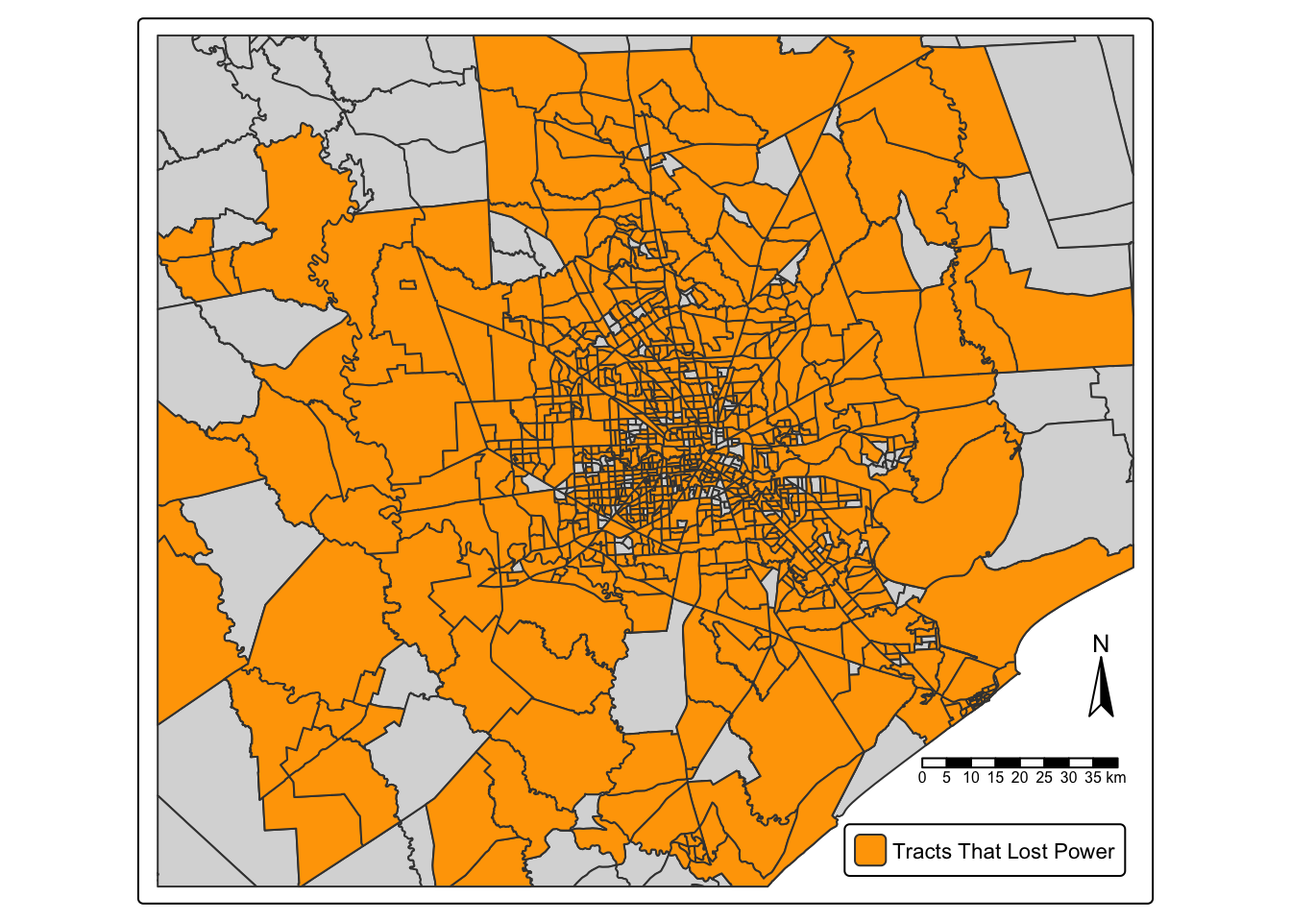
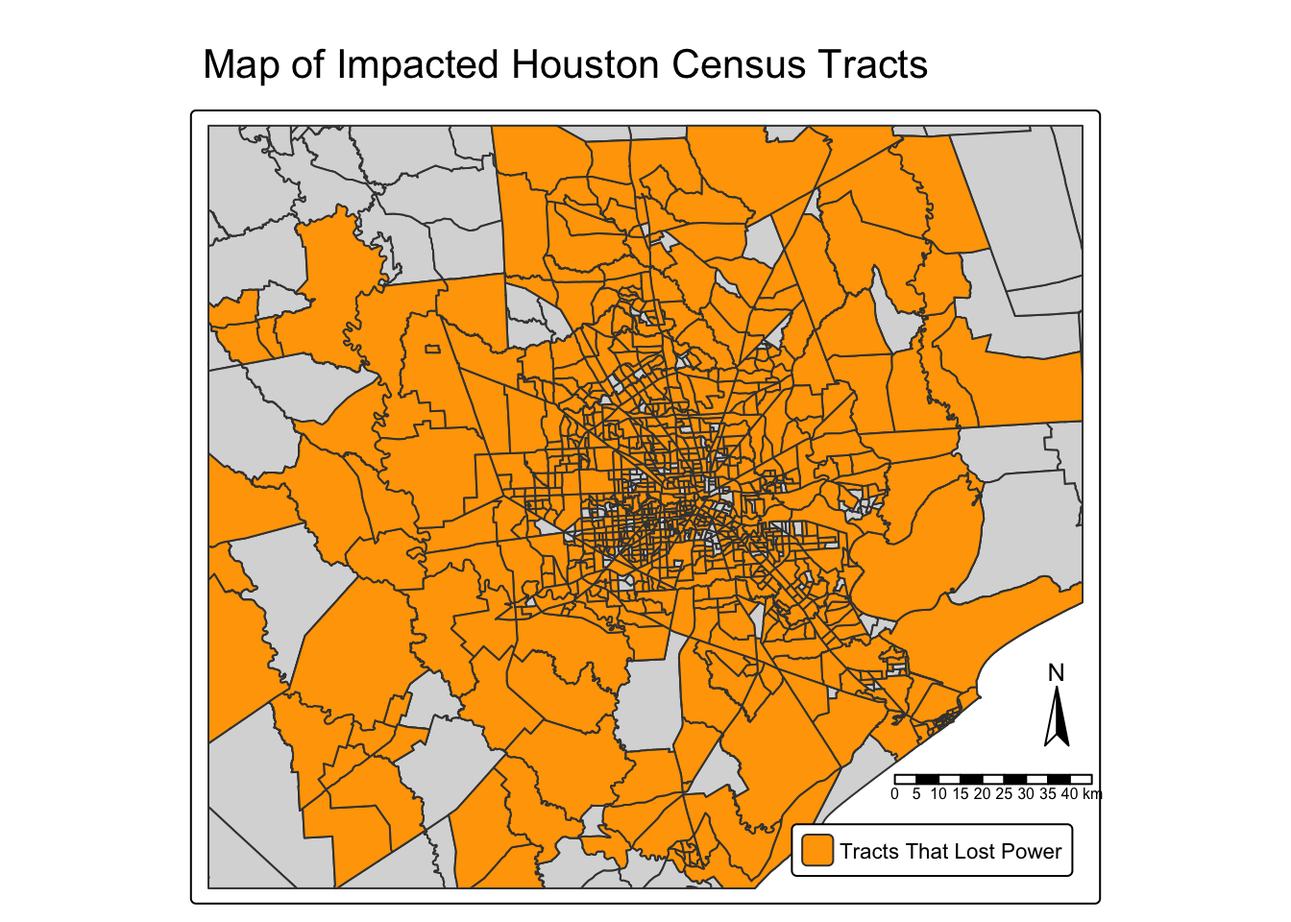
re-add files

diff --git a/docs/posts/2025-11-20-houston-blackouts/index.html b/docs/posts/2025-11-20-houston-blackouts/index.html
@@ -209,7 +209,7 @@ pre > code.sourceCode > span > a:first-child::before { text-decoration: underlin
     <h2 id="toc-title">On this page</h2>
    
   <ul>
-  <li><a href="#question" id="toc-question" class="nav-link active" data-scroll-target="#question">Question</a></li>
+  <li><a href="#question-motivation" id="toc-question-motivation" class="nav-link active" data-scroll-target="#question-motivation">Question &amp; Motivation</a></li>
   <li><a href="#background" id="toc-background" class="nav-link" data-scroll-target="#background">Background</a></li>
   <li><a href="#data" id="toc-data" class="nav-link" data-scroll-target="#data">Data</a></li>
   <li><a href="#analysis" id="toc-analysis" class="nav-link" data-scroll-target="#analysis">Analysis</a>
@@ -232,22 +232,22 @@ pre > code.sourceCode > span > a:first-child::before { text-decoration: underlin
 
 
 
-<section id="question" class="level1">
-<h1>Question</h1>
-<p>How did the 2021 severe winter storm disproportionately affect disadvantaged communities in Houston, Texas?</p>
+<section id="question-motivation" class="level1">
+<h1>Question &amp; Motivation</h1>
+<p><strong>How did the 2021 severe winter storm disproportionately affect disadvantaged communities in Houston, Texas?</strong></p>
+<p>The February 2021 winter storm triggered a widespread power outage in Texas, leaving many without heat or electricity. However, the impacts of this crisis were not felt equally. Long-standing disparities in housing quality, infrastructure, and socioeconomic conditions affected which neighborhoods were vulnerable to blackouts. This blog post investigates how these inequities influenced outages in Houston, using geospatial data to better understand how disadvantaged communities were disproportionately affected by the storm.</p>
 </section>
 <section id="background" class="level1">
 <h1>Background</h1>
-<p>Severe weather events are increasing in frequency and intensity as antropogenic climate change worsens. In Februaray 2021, a severe winter storm swept through the United States and caused a major power crisis in Houston, Texas. Additionally, it is documented that areas in Houston with lower median household income were dispropotionately affected and experienced more blackouts. This analysis will investigate winter storm Uri and the resulting socioeconomic impacts.</p>
-<p><a href="https://science.nasa.gov/earth/climate-change/extreme-makeover-human-activities-are-making-some-extreme-events-more-frequent-or-intense/">NASA</a></p>
+<p>Severe weather events are increasing in frequency and intensity as anthropogenic climate change worsens <a href="https://science.nasa.gov/earth/climate-change/extreme-makeover-human-activities-are-making-some-extreme-events-more-frequent-or-intense/">(NASA, 2021)</a>. In Februaray 2021, a severe winter storm swept through the United States and caused a major power crisis in Houston, Texas. Additionally, it is documented that areas in Houston with lower median household income were disproportionately affected and experienced more blackouts <a href="https://doi.org/10.1057/s41599-022-01353-8">(Lee et al., 2022)</a>. Since utilties do not release house-level outage information, there is no official documentation showing exactly which homes lost power or which communities were affected. Using publicly available satellite night lights, building polygons, and socioeconomic indicators, this analysis will investigate winter storm Uri and the resulting socioeconomic impacts.</p>
 </section>
 <section id="data" class="level1">
 <h1>Data</h1>
 <ul>
-<li><p>Night lights: Data used is from February 7th &amp; 16th, 2021, showing the before and after of the February 2021 Texas winter storm. The Visible Infrared Imaging Radiometer Suite (VIIRS) data is from NASA’s Level-1 and Atmospheric Archive &amp; Distribution System Distributed Active Archive Center (LAADS DAAC). The .tif files were downloaded and prepared by the instructors. LAADS DAAC Website</p></li>
-<li><p>Roads: From Geofabrik downloads site where OpenStreetMap (OSM) data can be extracted. Geofabrik Website</p></li>
-<li><p>Buildings: Also from Geofabrik, data contained are houses in the Houston area.</p></li>
-<li><p>Socio-economic: Obtained from the U.S. Census Bureau’s American Community Survey for census tracts in 2019. Used for combining census attribute data to OSM geospatial data.</p></li>
+<li><p>Night lights: Data used is from February 7th &amp; 16th, 2021, showing the before and after of the February 2021 Texas winter storm. The Visible Infrared Imaging Radiometer Suite (VIIRS) data is from NASA’s Level-1 and Atmospheric Archive &amp; Distribution System Distributed Active Archive Center (LAADS DAAC). The .tif files were downloaded and prepared by the instructors. <a href="https://ladsweb.modaps.eosdis.nasa.gov/">LAADS DAAC Website</a></p></li>
+<li><p>Roads: From Geofabrik downloads site where OpenStreetMap (OSM) data can be extracted. This dataset contains geometries for major highways and streets in the Houston area. Used to account for night light interference from highway light pollution. <a href="https://download.geofabrik.de/">Geofabrik Website</a></p></li>
+<li><p>Buildings: Also from Geofabrik, data contained are polygons for houses, commercial structures, and other buildings in the Houston area. Used to calculate an estimate of residential homes impacted by blackouts.</p></li>
+<li><p>Socio-economic: Obtained from the U.S. Census Bureau’s American Community Survey for census tracts in 2019. This data contains variables like income, race, age, and other demographic information. Used for combining census attribute data to OSM geospatial data to evaluate which communities were impacted by the storm.</p></li>
 </ul>
 </section>
 <section id="analysis" class="level1">
@@ -416,7 +416,7 @@ Figure&nbsp;1: Comparison of Houston Lights Before &amp; After the February 2021
 <span id="cb11-3"><a href="#cb11-3" aria-hidden="true" tabindex="-1"></a>  <span class="fu">st_transform</span>(<span class="st">"EPSG:3083"</span>)</span></code></pre></div><button title="Copy to Clipboard" class="code-copy-button"><i class="bi"></i></button></div>
 </details>
 </div>
-<p>Due to light pollution from highways, locations within 200 meters of highways should be excluded.</p>
+<p>Here, we use the road data to account for the influence of light pollution on blackout detection. Major highways produce significant lighting that can interfere with night light differences so only highway segments tagged as <code>motorway</code> are selected for analysis. As a result, locations within 200 meters of highways should be excluded.</p>
 <div class="cell">
 <details class="code-fold">
 <summary>Code</summary>
@@ -454,6 +454,7 @@ Figure&nbsp;1: Comparison of Houston Lights Before &amp; After the February 2021
 </section>
 <section id="identify-homes-impacted-by-blackouts" class="level2">
 <h2 class="anchored" data-anchor-id="identify-homes-impacted-by-blackouts">Identify Homes Impacted by Blackouts</h2>
+<p>Next, we’ll use the homes data to identify homes within our previously defined blackout areas. This enables us to retrieve an estimated number of homes that lost power and a map of impacted homes.</p>
 <div class="cell">
 <details class="code-fold">
 <summary>Code</summary>
@@ -504,9 +505,8 @@ Figure&nbsp;1: Comparison of Houston Lights Before &amp; After the February 2021
 <span id="cb20-7"><a href="#cb20-7" aria-hidden="true" tabindex="-1"></a>              <span class="at">fill =</span> <span class="fu">c</span>(<span class="st">'blue'</span>),</span>
 <span id="cb20-8"><a href="#cb20-8" aria-hidden="true" tabindex="-1"></a>              <span class="at">type =</span> <span class="st">'polygons'</span>,</span>
 <span id="cb20-9"><a href="#cb20-9" aria-hidden="true" tabindex="-1"></a>              <span class="at">position =</span> <span class="fu">c</span>(<span class="st">'left'</span>, <span class="st">'top'</span>)) <span class="sc">+</span></span>
-<span id="cb20-10"><a href="#cb20-10" aria-hidden="true" tabindex="-1"></a></span>
-<span id="cb20-11"><a href="#cb20-11" aria-hidden="true" tabindex="-1"></a></span>
-<span id="cb20-12"><a href="#cb20-12" aria-hidden="true" tabindex="-1"></a><span class="fu">tm_layout</span>(<span class="at">bg.color =</span> <span class="st">'grey90'</span>)</span></code></pre></div><button title="Copy to Clipboard" class="code-copy-button"><i class="bi"></i></button></div>
+<span id="cb20-10"><a href="#cb20-10" aria-hidden="true" tabindex="-1"></a><span class="fu">tm_title</span>(<span class="st">"Map of Impacted Houston Homes"</span>) <span class="sc">+</span></span>
+<span id="cb20-11"><a href="#cb20-11" aria-hidden="true" tabindex="-1"></a><span class="fu">tm_layout</span>(<span class="at">bg.color =</span> <span class="st">'grey90'</span>)</span></code></pre></div><button title="Copy to Clipboard" class="code-copy-button"><i class="bi"></i></button></div>
 </details>
 <div class="cell-output-display">
 <div id="fig-blackout-homes" class="quarto-float quarto-figure quarto-figure-center anchored">
@@ -545,9 +545,8 @@ Figure&nbsp;2: Map of Homes That Lost Power.
 <div class="code-copy-outer-scaffold"><div class="sourceCode cell-code" id="cb22"><pre class="sourceCode r code-with-copy"><code class="sourceCode r"><span id="cb22-1"><a href="#cb22-1" aria-hidden="true" tabindex="-1"></a><span class="co"># Display kable table</span></span>
 <span id="cb22-2"><a href="#cb22-2" aria-hidden="true" tabindex="-1"></a><span class="fu">options</span>(<span class="at">knitr.kable.NA =</span> <span class="st">""</span>)</span>
 <span id="cb22-3"><a href="#cb22-3" aria-hidden="true" tabindex="-1"></a><span class="fu">kbl</span>(homes_df,</span>
-<span id="cb22-4"><a href="#cb22-4" aria-hidden="true" tabindex="-1"></a>    <span class="at">table.attr =</span> <span class="st">'class="custom-table"'</span>, <span class="co"># For custom html styling</span></span>
-<span id="cb22-5"><a href="#cb22-5" aria-hidden="true" tabindex="-1"></a>    <span class="at">col.names =</span> <span class="fu">c</span>(<span class="st">"Home Type"</span>, <span class="st">"Count"</span>, <span class="st">"Percentage (%)"</span>),</span>
-<span id="cb22-6"><a href="#cb22-6" aria-hidden="true" tabindex="-1"></a>    <span class="at">align =</span> <span class="st">'c'</span>)</span></code></pre></div><button title="Copy to Clipboard" class="code-copy-button"><i class="bi"></i></button></div>
+<span id="cb22-4"><a href="#cb22-4" aria-hidden="true" tabindex="-1"></a>    <span class="at">col.names =</span> <span class="fu">c</span>(<span class="st">"Home Type"</span>, <span class="st">"Count"</span>, <span class="st">"Percentage (%)"</span>),</span>
+<span id="cb22-5"><a href="#cb22-5" aria-hidden="true" tabindex="-1"></a>    <span class="at">align =</span> <span class="st">'c'</span>)</span></code></pre></div><button title="Copy to Clipboard" class="code-copy-button"><i class="bi"></i></button></div>
 </details>
 <div id="tbl-homes" class="cell quarto-float quarto-figure quarto-figure-center anchored">
 <figure class="quarto-float quarto-float-tbl figure">
@@ -556,7 +555,7 @@ Table&nbsp;1: Estimate of Homes That Experienced Blackouts by Home Type
 </figcaption>
 <div aria-describedby="tbl-homes-caption-0ceaefa1-69ba-4598-a22c-09a6ac19f8ca">
 <div class="cell-output-display">
-<table class="custom-table do-not-create-environment cell caption-top table table-sm table-striped small">
+<table class="do-not-create-environment cell caption-top table table-sm table-striped small">
 <thead>
 <tr class="header">
 <th style="text-align: center;" data-quarto-table-cell-role="th">Home Type</th>
@@ -610,6 +609,7 @@ Table&nbsp;1: Estimate of Homes That Experienced Blackouts by Home Type
 </section>
 <section id="identify-census-tracts-impacted-by-blackouts" class="level2">
 <h2 class="anchored" data-anchor-id="identify-census-tracts-impacted-by-blackouts">Identify Census Tracts Impacted by Blackouts</h2>
+<p>In the same way as finding homes impacted, we use census data and our blackout areas to estimate the number of census tracts impacted and map them.</p>
 <div class="cell">
 <details class="code-fold">
 <summary>Code</summary>
@@ -675,14 +675,24 @@ Table&nbsp;1: Estimate of Homes That Experienced Blackouts by Home Type
 <span id="cb26-8"><a href="#cb26-8" aria-hidden="true" tabindex="-1"></a>  <span class="fu">summarise</span>(<span class="at">count =</span> <span class="fu">n</span>()) <span class="sc">|&gt;</span> </span>
 <span id="cb26-9"><a href="#cb26-9" aria-hidden="true" tabindex="-1"></a>  <span class="fu">pivot_wider</span>(<span class="at">names_from =</span> blackout,</span>
 <span id="cb26-10"><a href="#cb26-10" aria-hidden="true" tabindex="-1"></a>              <span class="at">values_from =</span> count) <span class="sc">|&gt;</span> </span>
-<span id="cb26-11"><a href="#cb26-11" aria-hidden="true" tabindex="-1"></a>  <span class="fu">mutate</span>(<span class="at">total =</span> <span class="fu">rowSums</span>(<span class="fu">across</span>(<span class="fu">everything</span>())))</span>
-<span id="cb26-12"><a href="#cb26-12" aria-hidden="true" tabindex="-1"></a></span>
-<span id="cb26-13"><a href="#cb26-13" aria-hidden="true" tabindex="-1"></a>blackout_table <span class="sc">|&gt;</span> </span>
-<span id="cb26-14"><a href="#cb26-14" aria-hidden="true" tabindex="-1"></a>  <span class="fu">kbl</span>(<span class="at">col.names =</span> <span class="fu">c</span>(<span class="st">"No Blackout"</span>, <span class="st">"Blackout"</span>, <span class="st">"Total Census Tracts"</span>),</span>
-<span id="cb26-15"><a href="#cb26-15" aria-hidden="true" tabindex="-1"></a>      <span class="at">align =</span> <span class="st">'c'</span>)</span></code></pre></div><button title="Copy to Clipboard" class="code-copy-button"><i class="bi"></i></button></div>
+<span id="cb26-11"><a href="#cb26-11" aria-hidden="true" tabindex="-1"></a>  <span class="fu">mutate</span>(<span class="at">total =</span> <span class="fu">rowSums</span>(<span class="fu">across</span>(<span class="fu">everything</span>())))</span></code></pre></div><button title="Copy to Clipboard" class="code-copy-button"><i class="bi"></i></button></div>
 </details>
+</div>
+<div class="cell">
+<details class="code-fold">
+<summary>Code</summary>
+<div class="code-copy-outer-scaffold"><div class="sourceCode cell-code" id="cb27"><pre class="sourceCode r code-with-copy"><code class="sourceCode r"><span id="cb27-1"><a href="#cb27-1" aria-hidden="true" tabindex="-1"></a>blackout_table <span class="sc">|&gt;</span> </span>
+<span id="cb27-2"><a href="#cb27-2" aria-hidden="true" tabindex="-1"></a>  <span class="fu">kbl</span>(<span class="at">col.names =</span> <span class="fu">c</span>(<span class="st">"No Blackout"</span>, <span class="st">"Blackout"</span>, <span class="st">"Total Census Tracts"</span>),</span>
+<span id="cb27-3"><a href="#cb27-3" aria-hidden="true" tabindex="-1"></a>      <span class="at">align =</span> <span class="st">'c'</span>)</span></code></pre></div><button title="Copy to Clipboard" class="code-copy-button"><i class="bi"></i></button></div>
+</details>
+<div id="tbl-census-blackouts" class="cell quarto-float quarto-figure quarto-figure-center anchored">
+<figure class="quarto-float quarto-float-tbl figure">
+<figcaption class="quarto-float-caption-top quarto-float-caption quarto-float-tbl" id="tbl-census-blackouts-caption-0ceaefa1-69ba-4598-a22c-09a6ac19f8ca">
+Table&nbsp;2: Estimate of Impacted and Non-impacted Census Tracts
+</figcaption>
+<div aria-describedby="tbl-census-blackouts-caption-0ceaefa1-69ba-4598-a22c-09a6ac19f8ca">
 <div class="cell-output-display">
-<table class="caption-top table table-sm table-striped small">
+<table class="do-not-create-environment cell caption-top table table-sm table-striped small">
 <thead>
 <tr class="header">
 <th style="text-align: center;" data-quarto-table-cell-role="th">No Blackout</th>
@@ -700,21 +710,25 @@ Table&nbsp;1: Estimate of Homes That Experienced Blackouts by Home Type
 </table>
 </div>
 </div>
+</figure>
+</div>
+</div>
 <div class="cell">
 <details class="code-fold">
 <summary>Code</summary>
-<div class="code-copy-outer-scaffold"><div class="sourceCode cell-code" id="cb27"><pre class="sourceCode r code-with-copy"><code class="sourceCode r"><span id="cb27-1"><a href="#cb27-1" aria-hidden="true" tabindex="-1"></a><span class="co"># Plot blackout areas with census blackouts</span></span>
-<span id="cb27-2"><a href="#cb27-2" aria-hidden="true" tabindex="-1"></a><span class="fu">tm_shape</span>(census_income) <span class="sc">+</span> <span class="co"># Census layer</span></span>
-<span id="cb27-3"><a href="#cb27-3" aria-hidden="true" tabindex="-1"></a>  <span class="fu">tm_polygons</span>() <span class="sc">+</span></span>
-<span id="cb27-4"><a href="#cb27-4" aria-hidden="true" tabindex="-1"></a><span class="fu">tm_shape</span>(census_blackouts) <span class="sc">+</span> <span class="co"># Census blackout layer</span></span>
-<span id="cb27-5"><a href="#cb27-5" aria-hidden="true" tabindex="-1"></a>  <span class="fu">tm_polygons</span>(<span class="at">fill =</span> <span class="st">'orange'</span>) <span class="sc">+</span></span>
-<span id="cb27-6"><a href="#cb27-6" aria-hidden="true" tabindex="-1"></a>  </span>
-<span id="cb27-7"><a href="#cb27-7" aria-hidden="true" tabindex="-1"></a><span class="fu">tm_compass</span>(<span class="at">position =</span> <span class="fu">c</span>(<span class="fl">0.92</span>, <span class="fl">0.32</span>)) <span class="sc">+</span></span>
-<span id="cb27-8"><a href="#cb27-8" aria-hidden="true" tabindex="-1"></a><span class="fu">tm_scalebar</span>(<span class="at">position =</span> <span class="fu">c</span>(<span class="fl">0.76</span>, <span class="fl">0.18</span>)) <span class="sc">+</span></span>
-<span id="cb27-9"><a href="#cb27-9" aria-hidden="true" tabindex="-1"></a><span class="fu">tm_add_legend</span>(<span class="at">labels =</span> <span class="fu">c</span>(<span class="st">"Tracts That Lost Power"</span>),</span>
-<span id="cb27-10"><a href="#cb27-10" aria-hidden="true" tabindex="-1"></a>              <span class="at">fill =</span> <span class="fu">c</span>(<span class="st">'orange'</span>),</span>
-<span id="cb27-11"><a href="#cb27-11" aria-hidden="true" tabindex="-1"></a>              <span class="at">type =</span> <span class="st">'polygons'</span>,</span>
-<span id="cb27-12"><a href="#cb27-12" aria-hidden="true" tabindex="-1"></a>              <span class="at">position =</span> <span class="fu">c</span>(<span class="st">'right'</span>, <span class="st">'bottom'</span>)) </span></code></pre></div><button title="Copy to Clipboard" class="code-copy-button"><i class="bi"></i></button></div>
+<div class="code-copy-outer-scaffold"><div class="sourceCode cell-code" id="cb28"><pre class="sourceCode r code-with-copy"><code class="sourceCode r"><span id="cb28-1"><a href="#cb28-1" aria-hidden="true" tabindex="-1"></a><span class="co"># Plot blackout areas with census blackouts</span></span>
+<span id="cb28-2"><a href="#cb28-2" aria-hidden="true" tabindex="-1"></a><span class="fu">tm_shape</span>(census_income) <span class="sc">+</span> <span class="co"># Census layer</span></span>
+<span id="cb28-3"><a href="#cb28-3" aria-hidden="true" tabindex="-1"></a>  <span class="fu">tm_polygons</span>() <span class="sc">+</span></span>
+<span id="cb28-4"><a href="#cb28-4" aria-hidden="true" tabindex="-1"></a><span class="fu">tm_shape</span>(census_blackouts) <span class="sc">+</span> <span class="co"># Census blackout layer</span></span>
+<span id="cb28-5"><a href="#cb28-5" aria-hidden="true" tabindex="-1"></a>  <span class="fu">tm_polygons</span>(<span class="at">fill =</span> <span class="st">'orange'</span>) <span class="sc">+</span></span>
+<span id="cb28-6"><a href="#cb28-6" aria-hidden="true" tabindex="-1"></a>  </span>
+<span id="cb28-7"><a href="#cb28-7" aria-hidden="true" tabindex="-1"></a><span class="fu">tm_compass</span>(<span class="at">position =</span> <span class="fu">c</span>(<span class="fl">0.92</span>, <span class="fl">0.32</span>)) <span class="sc">+</span></span>
+<span id="cb28-8"><a href="#cb28-8" aria-hidden="true" tabindex="-1"></a><span class="fu">tm_scalebar</span>(<span class="at">position =</span> <span class="fu">c</span>(<span class="fl">0.76</span>, <span class="fl">0.18</span>)) <span class="sc">+</span></span>
+<span id="cb28-9"><a href="#cb28-9" aria-hidden="true" tabindex="-1"></a><span class="fu">tm_add_legend</span>(<span class="at">labels =</span> <span class="fu">c</span>(<span class="st">"Tracts That Lost Power"</span>),</span>
+<span id="cb28-10"><a href="#cb28-10" aria-hidden="true" tabindex="-1"></a>              <span class="at">fill =</span> <span class="fu">c</span>(<span class="st">'orange'</span>),</span>
+<span id="cb28-11"><a href="#cb28-11" aria-hidden="true" tabindex="-1"></a>              <span class="at">type =</span> <span class="st">'polygons'</span>,</span>
+<span id="cb28-12"><a href="#cb28-12" aria-hidden="true" tabindex="-1"></a>              <span class="at">position =</span> <span class="fu">c</span>(<span class="st">'right'</span>, <span class="st">'bottom'</span>)) <span class="sc">+</span></span>
+<span id="cb28-13"><a href="#cb28-13" aria-hidden="true" tabindex="-1"></a><span class="fu">tm_title</span>(<span class="st">"Map of Impacted Houston Census Tracts"</span>)</span></code></pre></div><button title="Copy to Clipboard" class="code-copy-button"><i class="bi"></i></button></div>
 </details>
 <div class="cell-output-display">
 <div id="fig-census-blackouts" class="quarto-float quarto-figure quarto-figure-center anchored">
@@ -729,19 +743,21 @@ Figure&nbsp;3: Houston Census Tracts That Lost Power.
 </div>
 </div>
 </div>
+<p>Combining median household income of each census tract and our impacted/non-impacted census tracts, we can display the distribution of income for each group.</p>
 <div class="cell">
 <details class="code-fold">
 <summary>Code</summary>
-<div class="code-copy-outer-scaffold"><div class="sourceCode cell-code" id="cb28"><pre class="sourceCode r code-with-copy"><code class="sourceCode r"><span id="cb28-1"><a href="#cb28-1" aria-hidden="true" tabindex="-1"></a><span class="co"># Median household income plot</span></span>
-<span id="cb28-2"><a href="#cb28-2" aria-hidden="true" tabindex="-1"></a><span class="fu">ggplot</span>(census_blackout_tf, <span class="fu">aes</span>(blackout, median_hh_income_est)) <span class="sc">+</span></span>
-<span id="cb28-3"><a href="#cb28-3" aria-hidden="true" tabindex="-1"></a>  <span class="fu">geom_boxplot</span>() <span class="sc">+</span></span>
-<span id="cb28-4"><a href="#cb28-4" aria-hidden="true" tabindex="-1"></a>  </span>
-<span id="cb28-5"><a href="#cb28-5" aria-hidden="true" tabindex="-1"></a>  <span class="fu">scale_x_discrete</span>(<span class="at">labels =</span> <span class="fu">c</span>(<span class="st">'No Blackout'</span>, <span class="st">'Blackout'</span>)) <span class="sc">+</span></span>
-<span id="cb28-6"><a href="#cb28-6" aria-hidden="true" tabindex="-1"></a>  <span class="fu">labs</span>(<span class="at">y =</span> <span class="st">"Median Household Income (Estimate) in Census Tract"</span>) <span class="sc">+</span></span>
-<span id="cb28-7"><a href="#cb28-7" aria-hidden="true" tabindex="-1"></a>  </span>
-<span id="cb28-8"><a href="#cb28-8" aria-hidden="true" tabindex="-1"></a>  <span class="fu">theme_classic</span>() <span class="sc">+</span></span>
-<span id="cb28-9"><a href="#cb28-9" aria-hidden="true" tabindex="-1"></a>  <span class="fu">theme</span>(<span class="at">panel.grid.major.y =</span> <span class="fu">element_line</span>(<span class="at">color =</span> <span class="st">'grey'</span>),</span>
-<span id="cb28-10"><a href="#cb28-10" aria-hidden="true" tabindex="-1"></a>        <span class="at">axis.title.x =</span> <span class="fu">element_blank</span>()) </span></code></pre></div><button title="Copy to Clipboard" class="code-copy-button"><i class="bi"></i></button></div>
+<div class="code-copy-outer-scaffold"><div class="sourceCode cell-code" id="cb29"><pre class="sourceCode r code-with-copy"><code class="sourceCode r"><span id="cb29-1"><a href="#cb29-1" aria-hidden="true" tabindex="-1"></a><span class="co"># Median household income plot</span></span>
+<span id="cb29-2"><a href="#cb29-2" aria-hidden="true" tabindex="-1"></a><span class="fu">ggplot</span>(census_blackout_tf, <span class="fu">aes</span>(blackout, median_hh_income_est)) <span class="sc">+</span></span>
+<span id="cb29-3"><a href="#cb29-3" aria-hidden="true" tabindex="-1"></a>  <span class="fu">geom_boxplot</span>() <span class="sc">+</span></span>
+<span id="cb29-4"><a href="#cb29-4" aria-hidden="true" tabindex="-1"></a>  </span>
+<span id="cb29-5"><a href="#cb29-5" aria-hidden="true" tabindex="-1"></a>  <span class="fu">scale_x_discrete</span>(<span class="at">labels =</span> <span class="fu">c</span>(<span class="st">'No Blackout'</span>, <span class="st">'Blackout'</span>)) <span class="sc">+</span></span>
+<span id="cb29-6"><a href="#cb29-6" aria-hidden="true" tabindex="-1"></a>  <span class="fu">labs</span>(<span class="at">title =</span> <span class="st">"Distribution of Median Household Income for Census Tract Blackout Groups"</span>, </span>
+<span id="cb29-7"><a href="#cb29-7" aria-hidden="true" tabindex="-1"></a>       <span class="at">y =</span> <span class="st">"Median Household Income (Estimate) in Census Tract"</span>) <span class="sc">+</span></span>
+<span id="cb29-8"><a href="#cb29-8" aria-hidden="true" tabindex="-1"></a>  </span>
+<span id="cb29-9"><a href="#cb29-9" aria-hidden="true" tabindex="-1"></a>  <span class="fu">theme_classic</span>() <span class="sc">+</span></span>
+<span id="cb29-10"><a href="#cb29-10" aria-hidden="true" tabindex="-1"></a>  <span class="fu">theme</span>(<span class="at">panel.grid.major.y =</span> <span class="fu">element_line</span>(<span class="at">color =</span> <span class="st">'grey'</span>),</span>
+<span id="cb29-11"><a href="#cb29-11" aria-hidden="true" tabindex="-1"></a>        <span class="at">axis.title.x =</span> <span class="fu">element_blank</span>()) </span></code></pre></div><button title="Copy to Clipboard" class="code-copy-button"><i class="bi"></i></button></div>
 </details>
 <div class="cell-output-display">
 <div id="fig-income" class="quarto-float quarto-figure quarto-figure-center anchored">
@@ -764,10 +780,11 @@ Figure&nbsp;4: Distribution of Median Household Income for Census Tracts per Bla
 <section id="references" class="level2">
 <h2 class="anchored" data-anchor-id="references">References</h2>
 <ul>
-<li><p>Román, M.O., Wang, Z., Sun, Q., Kalb, V.L., Miller, S.D., Molthan, A., Schultz, L., Bell, J., Stokes, E.C., Pandey, B., et al.&nbsp;(2018). NASA’s Black Marble nighttime lights product suite (VNP46). Remote Sensing of Environment, 210, 113-143. <a href="https://doi.org/10.1016/j.rse.2018.03.017" class="uri">https://doi.org/10.1016/j.rse.2018.03.017</a></p></li>
+<li><p>Lee CC, Maron M, Mostafavi A. (2022). Community-scale big data reveals disparate impacts of the Texas winter storm of 2021 and its managed power outage. Humanit Soc Sci Commun. 2022;9(1):335. doi:10.1057/s41599-022-01353-8. Epub 2022 Sep 24. PMID: 36187845; PMCID: PMC9510185.</p></li>
+<li><p>NASA. Extreme Makeover: Human Activities Are Making Some Extreme Events More Frequent or Intense - NASA Science. 8 Nov.&nbsp;2021, https://science.nasa.gov/earth/climate-change/extreme-makeover-human-activities-are-making-some-extreme-events-more-frequent-or-intense/.</p></li>
 <li><p>OpenStreetMap Contributors (2025). OpenStreetMap database. Retrieved from <a href="https://www.openstreetmap.org" class="uri">https://www.openstreetmap.org</a>. Distributed by Geofabrik GmbH, Karlsruhe, Germany. Available at <a href="https://download.geofabrik.de/" class="uri">https://download.geofabrik.de/</a></p></li>
+<li><p>Román, M.O., Wang, Z., Sun, Q., Kalb, V.L., Miller, S.D., Molthan, A., Schultz, L., Bell, J., Stokes, E.C., Pandey, B., et al.&nbsp;(2018). NASA’s Black Marble nighttime lights product suite (VNP46). Remote Sensing of Environment, 210, 113-143. <a href="https://doi.org/10.1016/j.rse.2018.03.017" class="uri">https://doi.org/10.1016/j.rse.2018.03.017</a></p></li>
 <li><p>U.S. Census Bureau. (2020). TIGER/Line Shapefiles and American Community Survey 2019 (5-Year Estimates), Texas — Census Tract Level (ACS_2019_5YR_TRACT_48_TEXAS) [Data set]. U.S. Department of Commerce. Available from <a href="https://www.census.gov/geographies/mapping-files/time-series/geo/tiger-data.html" class="uri">https://www.census.gov/geographies/mapping-files/time-series/geo/tiger-data.html</a></p></li>
-<li><p>Lee CC, Maron M, Mostafavi A. Community-scale big data reveals disparate impacts of the Texas winter storm of 2021 and its managed power outage. Humanit Soc Sci Commun. 2022;9(1):335. doi:10.1057/s41599-022-01353-8. Epub 2022 Sep 24. PMID: 36187845; PMCID: PMC9510185.</p></li>
 </ul>
 
 

diff --git a/docs/posts.html b/docs/posts.html
@@ -342,7 +342,7 @@ Nov 20, 2025
 </div>
 </div></a>
 </div>
-<div class="g-col-1" data-index="4" data-categories="TUVEUyUyQ1IlMkNHZW9zcGF0aWFs" data-listing-date-sort="1763632800000" data-listing-file-modified-sort="1764983798019" data-listing-date-modified-sort="NaN" data-listing-reading-time-sort="11" data-listing-word-count-sort="2197">
+<div class="g-col-1" data-index="4" data-categories="TUVEUyUyQ1IlMkNHZW9zcGF0aWFs" data-listing-date-sort="1763632800000" data-listing-file-modified-sort="1765576020159" data-listing-date-modified-sort="NaN" data-listing-reading-time-sort="13" data-listing-word-count-sort="2539">
 <a href="./posts/2025-11-20-houston-blackouts/index.html" class="quarto-grid-link">
 <div class="quarto-grid-item card h-100 card-left">
 <p class="card-img-top">
